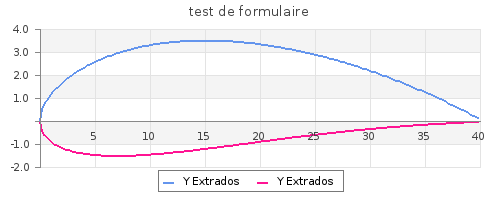
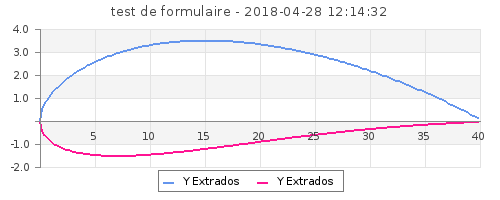
formulaire

Changed region(s): [[0.21, 0.03, 0.78, 0.09]]

diff --git a/php/form.php b/php/form.php
@@ -5,8 +5,18 @@ $db = new Database();
 $date = new DateTime();
 
 $fic_img = $_POST['libelle'].'.png';
-// envoi des données saisies
-$db->execute("INSERT INTO parametre VALUES (null,:libelle, :corde, :tMaxmm, :tMaxPercent, :fMaxmm, :fMaxPercent, :nbPoints, :date, :fic_img, null)",array("libelle"=>$_POST['libelle'], "corde"=>$_POST['corde'], "tMaxmm"=>$_POST['tMaxmm'], "tMaxPercent"=>$_POST['tMaxPercent'], "fMaxmm"=>$_POST['fMaxmm'], "fMaxPercent"=>$_POST['fMaxPercent'], "nbPoints"=>$_POST['nbPoints'], "date"=>$date->format('Y-m-d H:i:s'), "fic_img"=>$fic_img));
 
+//Remplacement des ',' par des '.'
+$arrayContent = array();
+foreach($_POST as $key => $value){
+
+    $arrayContent[$key] = str_replace(',', '.', $value);
+}
+
+
+// envoi des données saisies
+$db->execute("INSERT INTO parametre VALUES (null,:libelle, :corde, :tMaxmm, :tMaxPercent, :fMaxmm, :fMaxPercent, :nbPoints, :date, :fic_img, null)",array("libelle"=>$arrayContent['libelle'], "corde"=>$arrayContent['corde'], "tMaxmm"=>$arrayContent['tMaxmm'], "tMaxPercent"=>$arrayContent['tMaxPercent'], "fMaxmm"=>$arrayContent['fMaxmm'], "fMaxPercent"=>$arrayContent['fMaxPercent'], "nbPoints"=>$arrayContent['nbPoints'], "date"=>$date->format('Y-m-d H:i:s'), "fic_img"=>$fic_img));
+
+//Retour accueil
 header('Location: /ProjetPHP/index.php');
 ?>

diff --git a/php/Naca.php b/php/Naca.php
@@ -93,8 +93,8 @@ class Naca{
     $theme_class=new UniversalTheme;
 
     $graph->SetTheme($theme_class);
-    $graph->img->SetAntiAliasing(false);
-    $graph->title->Set($this->parametre->getLibelle());
+    $graph->img->SetAntiAliasing();
+    $graph->title->Set($this->parametre->getLibelle().' - '.$this->parametre->getDate());
     $graph->SetBox(false);
 
     // Axe des ordonnées
@@ -119,7 +119,7 @@ class Naca{
 
 
     $graph->legend->SetFrameWeight(1);
-    $graph->img->SetAntiAliasing();
+    //$graph->img->SetAntiAliasing();
 
     // Stockage de l'image
     $graph->Stroke($this->parametre->getLibelle().".png");

diff --git a/index.php b/index.php
@@ -26,7 +26,7 @@
       require "php/Naca.php";
 
       $db = new Database();
-      $n = new Naca($db,4);
+      $n = new Naca($db,2);
       $n -> drawGraph();
       
     ?>
